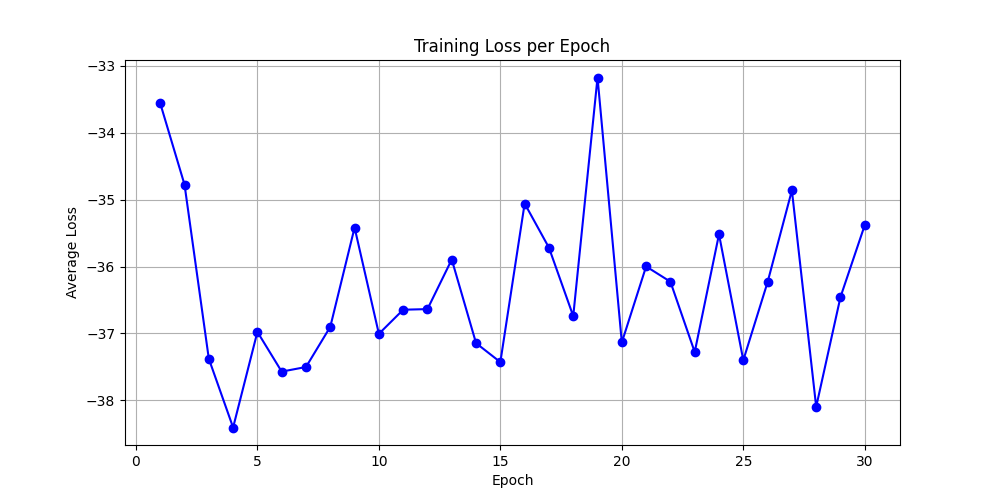
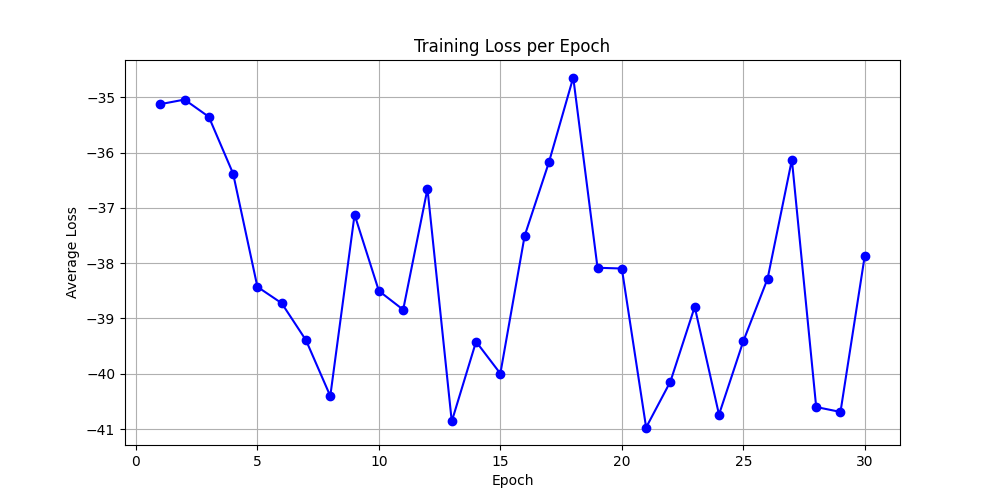
adding the preconditioning function as a seperate function

diff --git a/main_train.py b/main_train.py
@@ -123,6 +123,7 @@ if run_UPGA_J10 == 1:
             rate, __, F, W = model_UPGA_J10.execute_PGA(H, xi_0, A_dot, R_N_inv, snr_train, n_iter_outer, n_iter_inner_J10)
             
             loss = get_sum_loss(F, W, H, xi_0, A_dot, R_N_inv, snr_train)
+            print(f"Batch [{i_batch//batch_size+1}/{len(H_train[0])//batch_size}], Loss: {loss.item():.4f}")
             
             optimizer.zero_grad()
             loss.backward()
@@ -162,67 +163,7 @@ if run_UPGA_J10 == 1:
     # beam_error_UPGA_J10 = [r.detach().numpy() for r in (sum(beam_crb_iter_UPGA_J10) / (len(H_test[0])))]
     # iter_number_UPGA_J10 = np.array(list(range(n_iter_outer + 1)))
 
-# ============================================= Proposed unfolded PGA J=10 PC ============================================
 
-if run_UPGA_J10_PC == 1:
-
-    # Object defining
-    model_UPGA_J10_PC = PGA_Unfold_J10_PC(step_size_UPGA_J10_PC)
-
-    # training procedure
-    optimizer = torch.optim.Adam(model_UPGA_J10_PC.parameters(), lr=learning_rate)
-
-    train_losses, valid_losses = [], []
-
-    for i_epoch in range(1):
-        print(i_epoch)
-        H_shuffeld = torch.transpose(H_train, 0, 1)[np.random.permutation(len(H_train[0]))]
-        for i_batch in range(0, len(H_train), batch_size):
-            H = torch.transpose(H_shuffeld[i_batch:i_batch + batch_size], 0, 1)
-            snr_dB_train = np.random.choice(snr_dB_list)
-            snr_train = 10 ** (snr_dB_train / 10)
-            Rtrain, _, _, _ = get_radar_data(snr_dB_train, H)
-            __ , __, F, W = model_UPGA_J10_PC.execute_PGA(H, Rtrain, snr_train, n_iter_outer, n_iter_inner_J10)
-            loss = get_sum_loss(F, W, H, Rtrain, snr_train, batch_size)
-
-
-            optimizer.zero_grad()  # zero the gradient buffers
-            loss.backward()
-            optimizer.step()  # Does the update 
-
-    # Save trained model
-    torch.save(model_UPGA_J10_PC.state_dict(), model_file_name_UPGA_J10_PC)
-
-    # test proposed model
-    model_test = PGA_Unfold_J10_PC(step_size_UPGA_J10_PC)
-    model_test.load_state_dict(torch.load(model_file_name_UPGA_J10_PC))
-    Rtest, at, theta, ideal_beam = get_radar_data(snr_dB, H_test)
-    rate_iter_UPGA_J10_PC, beam_error_iter_UPGA_J10_PC, F_prop_UPGA_J10_PC, W_prop_UPGA_J10_PC = model_test.execute_PGA(H_test, Rtest,
-                                                                                                            snr,
-                                                                                                            n_iter_outer,
-                                                                                                            n_iter_inner_J10)
-    rate_UPGA_J10_PC = [r.detach().numpy() for r in (sum(rate_iter_UPGA_J10_PC) / len(H_test[0]))]
-    beam_error_UPGA_J10_PC = [r.detach().numpy() for r in (sum(beam_error_iter_UPGA_J10_PC) / (len(H_test[0])))]
-    iter_number_UPGA_J10_PC = np.array(list(range(n_iter_outer + 1)))
-
-    ## Plot results
-    plt.figure()
-    plt.semilogy(iter_number_UPGA_J10_PC, beam_error_UPGA_J10_PC, '-o')
-    plt.xlabel('Number of iterations')
-    plt.ylabel('Beampattern MSE')
-    plt.title('Beampattern MSE vs Number of iterations for UPGA J=10 PC')
-    plt.grid()
-
-    plt.figure()
-    plt.plot(iter_number_UPGA_J10_PC, rate_UPGA_J10_PC, '-o')
-    plt.xlabel('Number of iterations')
-    plt.ylabel('Average achievable rate (bps/Hz)')
-    plt.title('Average achievable rate vs Number of iterations for UPGA J=10 PC')
-    plt.grid()
-
-# ============================================= Proposed unfolded PGA J=10 PC AP ============================================
-
-if run_UPGA_J10_PC_AP == 1:
 
     # Object defining
     model_UPGA_J10_PC_AP = PGA_Unfold_J10_PC_AP(step_size_UPGA_J10_PC)
@@ -250,3 +191,50 @@ if run_UPGA_J10_PC_AP == 1:
 
     # Save trained model
     torch.save(model_UPGA_J10_PC_AP.state_dict(), model_file_name_UPGA_J10_PC)
+
+
+if run_UPGA_J10_PRCDN == 1:
+    model_UPGA_J10_PRCDN = PGA_Unfold_J10_PRCDN(n_iter_inner_J10, n_iter_outer, dim_F=64, dim_W=4)
+    optimizer = torch.optim.Adam(model_UPGA_J10_PRCDN.parameters(), lr=learning_rate)
+
+    epoch_losses = [] # To store average loss per epoch
+
+    for i_epoch in range(n_epoch):
+        batch_losses = [] # To store loss of each batch in current epoch
+        
+        H_shuffled = torch.transpose(H_train, 0, 1)[np.random.permutation(len(H_train[0]))]
+        
+        for i_batch in range(0, len(H_train[0]), batch_size):
+            H = torch.transpose(H_shuffled[i_batch:i_batch + batch_size], 0, 1)
+            snr_dB_train = np.random.choice(snr_dB_list)
+            snr_train = 10 ** (snr_dB_train / 10)
+            
+            rate, __, F, W = model_UPGA_J10_PRCDN.execute_PGA(H, xi_0, A_dot, R_N_inv, snr_train, n_iter_outer, n_iter_inner_J10)
+            
+            loss = get_sum_loss(F, W, H, xi_0, A_dot, R_N_inv, snr_train)
+            print(f"Batch [{i_batch//batch_size+1}/{len(H_train[0])//batch_size}], Loss: {loss.item():.4f}")
+            
+            optimizer.zero_grad()
+            loss.backward()
+            optimizer.step()
+            
+            # .item() is critical to keep memory usage low!
+            batch_losses.append(loss.item())
+
+        avg_loss = sum(batch_losses) / len(batch_losses)
+        epoch_losses.append(avg_loss)
+        print(f"Epoch [{i_epoch+1}/{n_epoch}], Average Loss: {avg_loss:.4f}")
+
+    torch.save(model_UPGA_J10_PRCDN.state_dict(), model_file_name_UPGA_J10_PRCDN)
+    
+    # Plotting
+    plt.figure(figsize=(10, 5))
+    plt.plot(range(1, n_epoch + 1), epoch_losses, marker='o', linestyle='-', color='b')
+    plt.title('Training Loss per Epoch')
+    plt.xlabel('Epoch')
+    plt.ylabel('Average Loss')
+    plt.grid(True)
+
+
+    # Save the plot of training loss
+    plt.savefig(directory_result + "training_loss_UPGA_J10.png")

diff --git a/system_config.py b/system_config.py
@@ -13,10 +13,11 @@ run_conv_PGA = 0           # Conventional PGA without unfolding
 run_conv_PGA_J10 = 1       # Conventional PGA with setting J = 10
 run_conv_PGA_J10_PC = 0    # Conventional PGA with J = 10 and partial coupling (PC) 
 run_UPGA_J1 = 0            # Unfolded PGA without any modification (J = 1)
-run_UPGA_J10 = 1           # Unfolded PGA with setting J = 10
+run_UPGA_J10 = 0           # Unfolded PGA with setting J = 10
 run_UPGA_J20 = 0           # Unfolded PGA with setting J = 20
 run_UPGA_J10_PC = 0        # Unfolded PGA with J = 10 and partial coupling (PC)
 run_UPGA_J10_PC_AP = 0     # Unfolded PGA with J = 10, partial coupling (PC)
+run_UPGA_J10_PRCDN = 1 
 
 run_UPGA_J10_RMSProp = 0   # Unfolded PGA with J = 10 and RMSProp-like adaptive step sizes
 
@@ -62,13 +63,14 @@ print(system_info)
 # ////////////////////////////////////////////// MODEL PARAMS //////////////////////////////////////////////
 train_size = 256    # size of training set
 test_size = 1      # size of testing set
-batch_size = 8     # batch size when training
+batch_size = 16     # batch size when training
 n_epoch = 30         # number of training epochs
 learning_rate = 0.0001 # learning rate
 
 n_iter_outer = 120      # Number of outer iterations (I)
 n_iter_inner_J5 = 5     # Number of inner iterations (J = 5)
 n_iter_inner_J20 = 20   # Number of inner iterations (J = 20)
+
 
 # ============================ TUNING PARAMETERS ===========================
 WEIGHT_F_RAD = OMEGA  # fixed
@@ -136,6 +138,7 @@ if not os.path.exists(directory_model):
 
 model_file_name_UPGA_J1 = directory_model + 'UPGA_J1.pth'
 model_file_name_UPGA_J10 = directory_model + 'UPGA_J10.pth'
+model_file_name_UPGA_J10_PRCDN = directory_model + 'UPGA_J10_PRCDN.pth'
 model_file_name_UPGA_J20 = directory_model + 'UPGA_J20.pth'
 model_file_name_UPGA_J10_PC = directory_model + 'UPGA_J10_PC.pth'
 model_file_name_UPGA_J10_PC_omega03 = directory_model03 + 'UPGA_J10_PC.pth'
